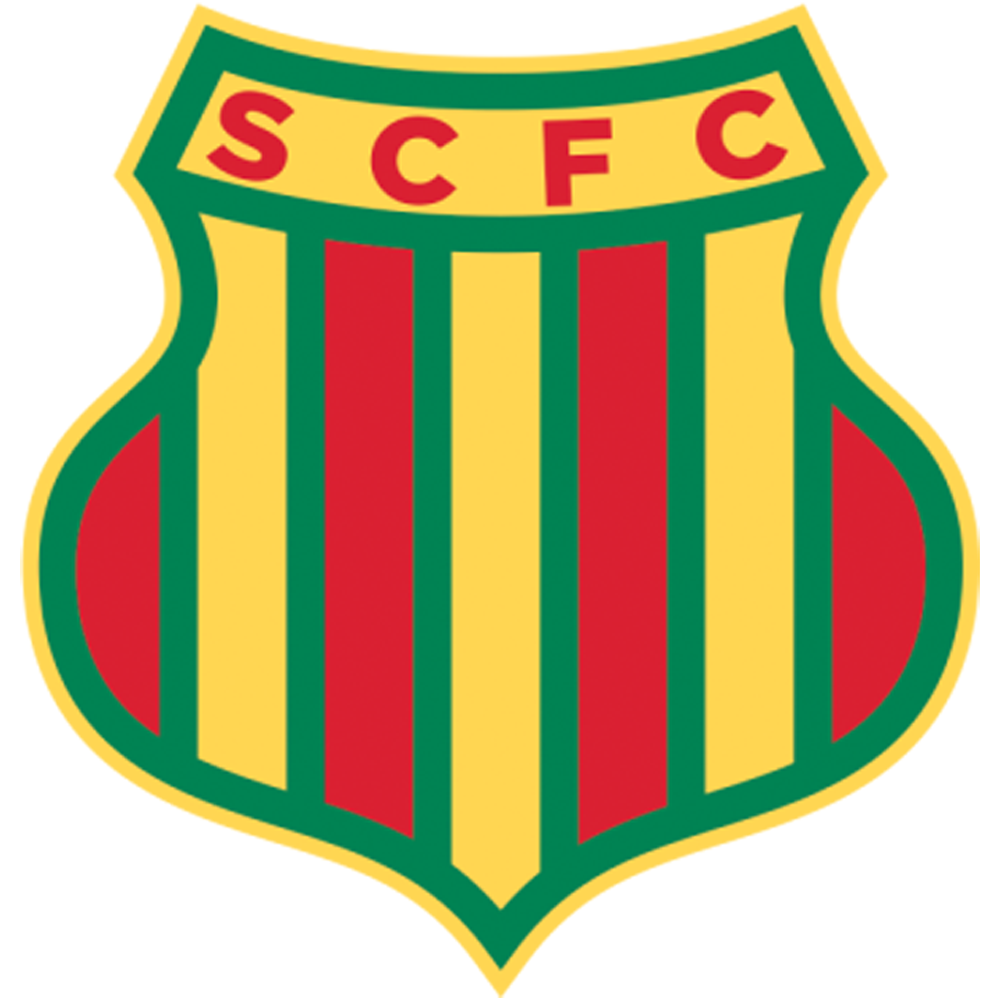
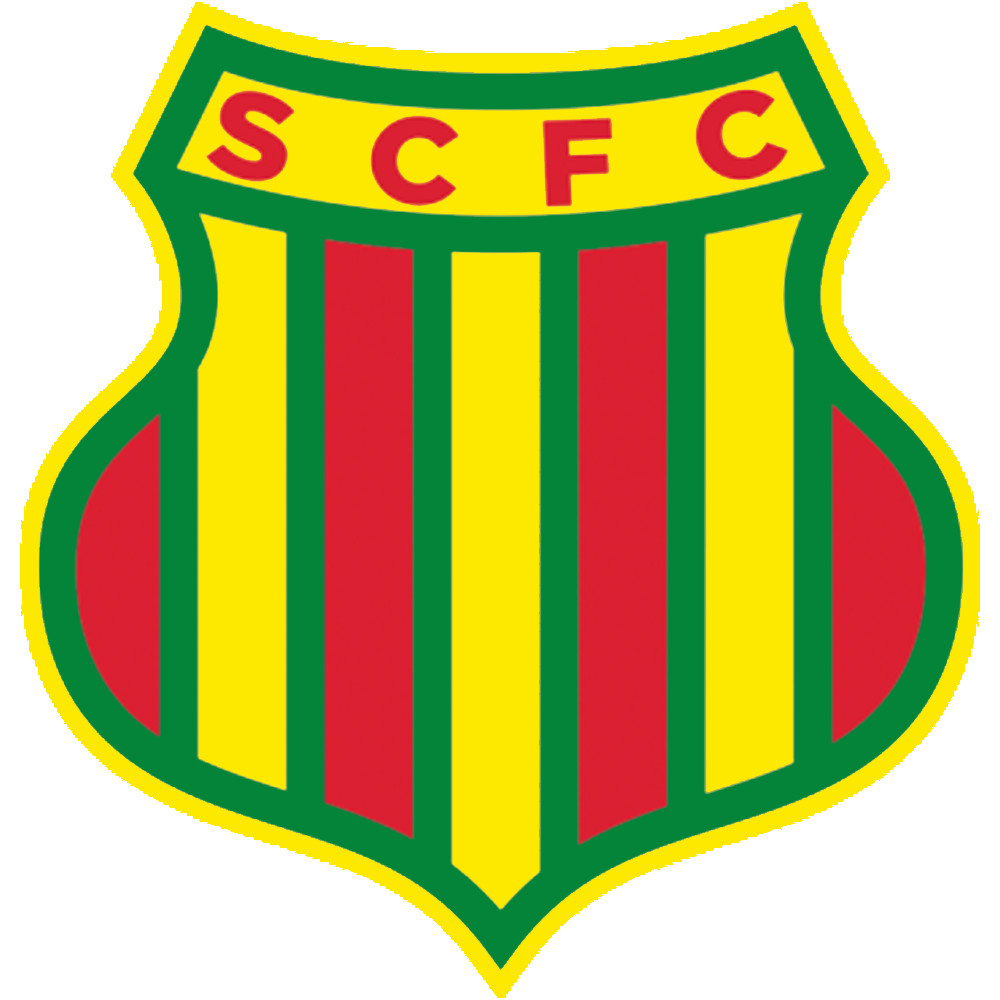
master
consertando função de contar vitórias, derrotas e empates e trocando cores do sampaio correa

diff --git a/jogos.js b/jogos.js
@@ -396,8 +396,8 @@ var jogo192 = ["Botafogo", "Macaé", 3, 1, "Carioca", "2020-01-26", "Nilton Sant
 jogos.push(jogo192);
 var jogo194 = ["Botafogo", "Resende", 2, 1, "Carioca", "2020-01-30", "Nilton Santos", "Alberto Valentim", "-Bruno Nazário<br>-Pedro Raúl", "-Geovani"];
 jogos.push(jogo194);
-var jogo195 = ["Botafogo", "Vasco", 1, 0, "Carioca", "2020-02-02", "Nilton Santos", "Alberto Valentim", "-Igor Cássio", ""];
-jogos.push(jogo195);
+var jogo20200202 = ["Botafogo", "Vasco", 1, 0, "Carioca", "2020-02-02", "Nilton Santos", "Alberto Valentim", "-Igor Cássio", ""];
+jogos.push(jogo20200202);
 var jogo20200209 = ["Fluminense", "Botafogo",  3, 0, "Carioca", "2020-02-09", "Maracanã", "Alberto Valentim", "", "-Nenê (2x)<br>-Wellington Silva"];
 jogos.push(jogo20200209);
 var jogo20200301 = ["Botafogo", "Boavista", 2, 1, "Carioca", "2020-03-01", "Nilton Santos", "Paulo Autuori", "-Alex Santana<br>-Bruno Nazário", "-Michel"];

diff --git a/tabela.js b/tabela.js
@@ -187,7 +187,7 @@ function adversario(){
 					derrotas += 1;
 				}
 			} else if (selecionados[i][0] != "Botafogo"){
-				if(selecionados[i][2] > selecionados[i][3]){
+				if(selecionados[i][3] > selecionados[i][2]){
 					vitorias += 1;
 				} else {
 					derrotas += 1;

diff --git a/cores.js b/cores.js
@@ -189,7 +189,7 @@ function coresTimes(time, jogo){
 		return ["white", "black"];
 		break;
 		case "Sampaio Corrêa":
-		return ["#ffd652", "#008253"];
+		return ["#fde900", "#048439"];
 		break;
 		case "São Caetano":
 		return ["#212568", "white"];
